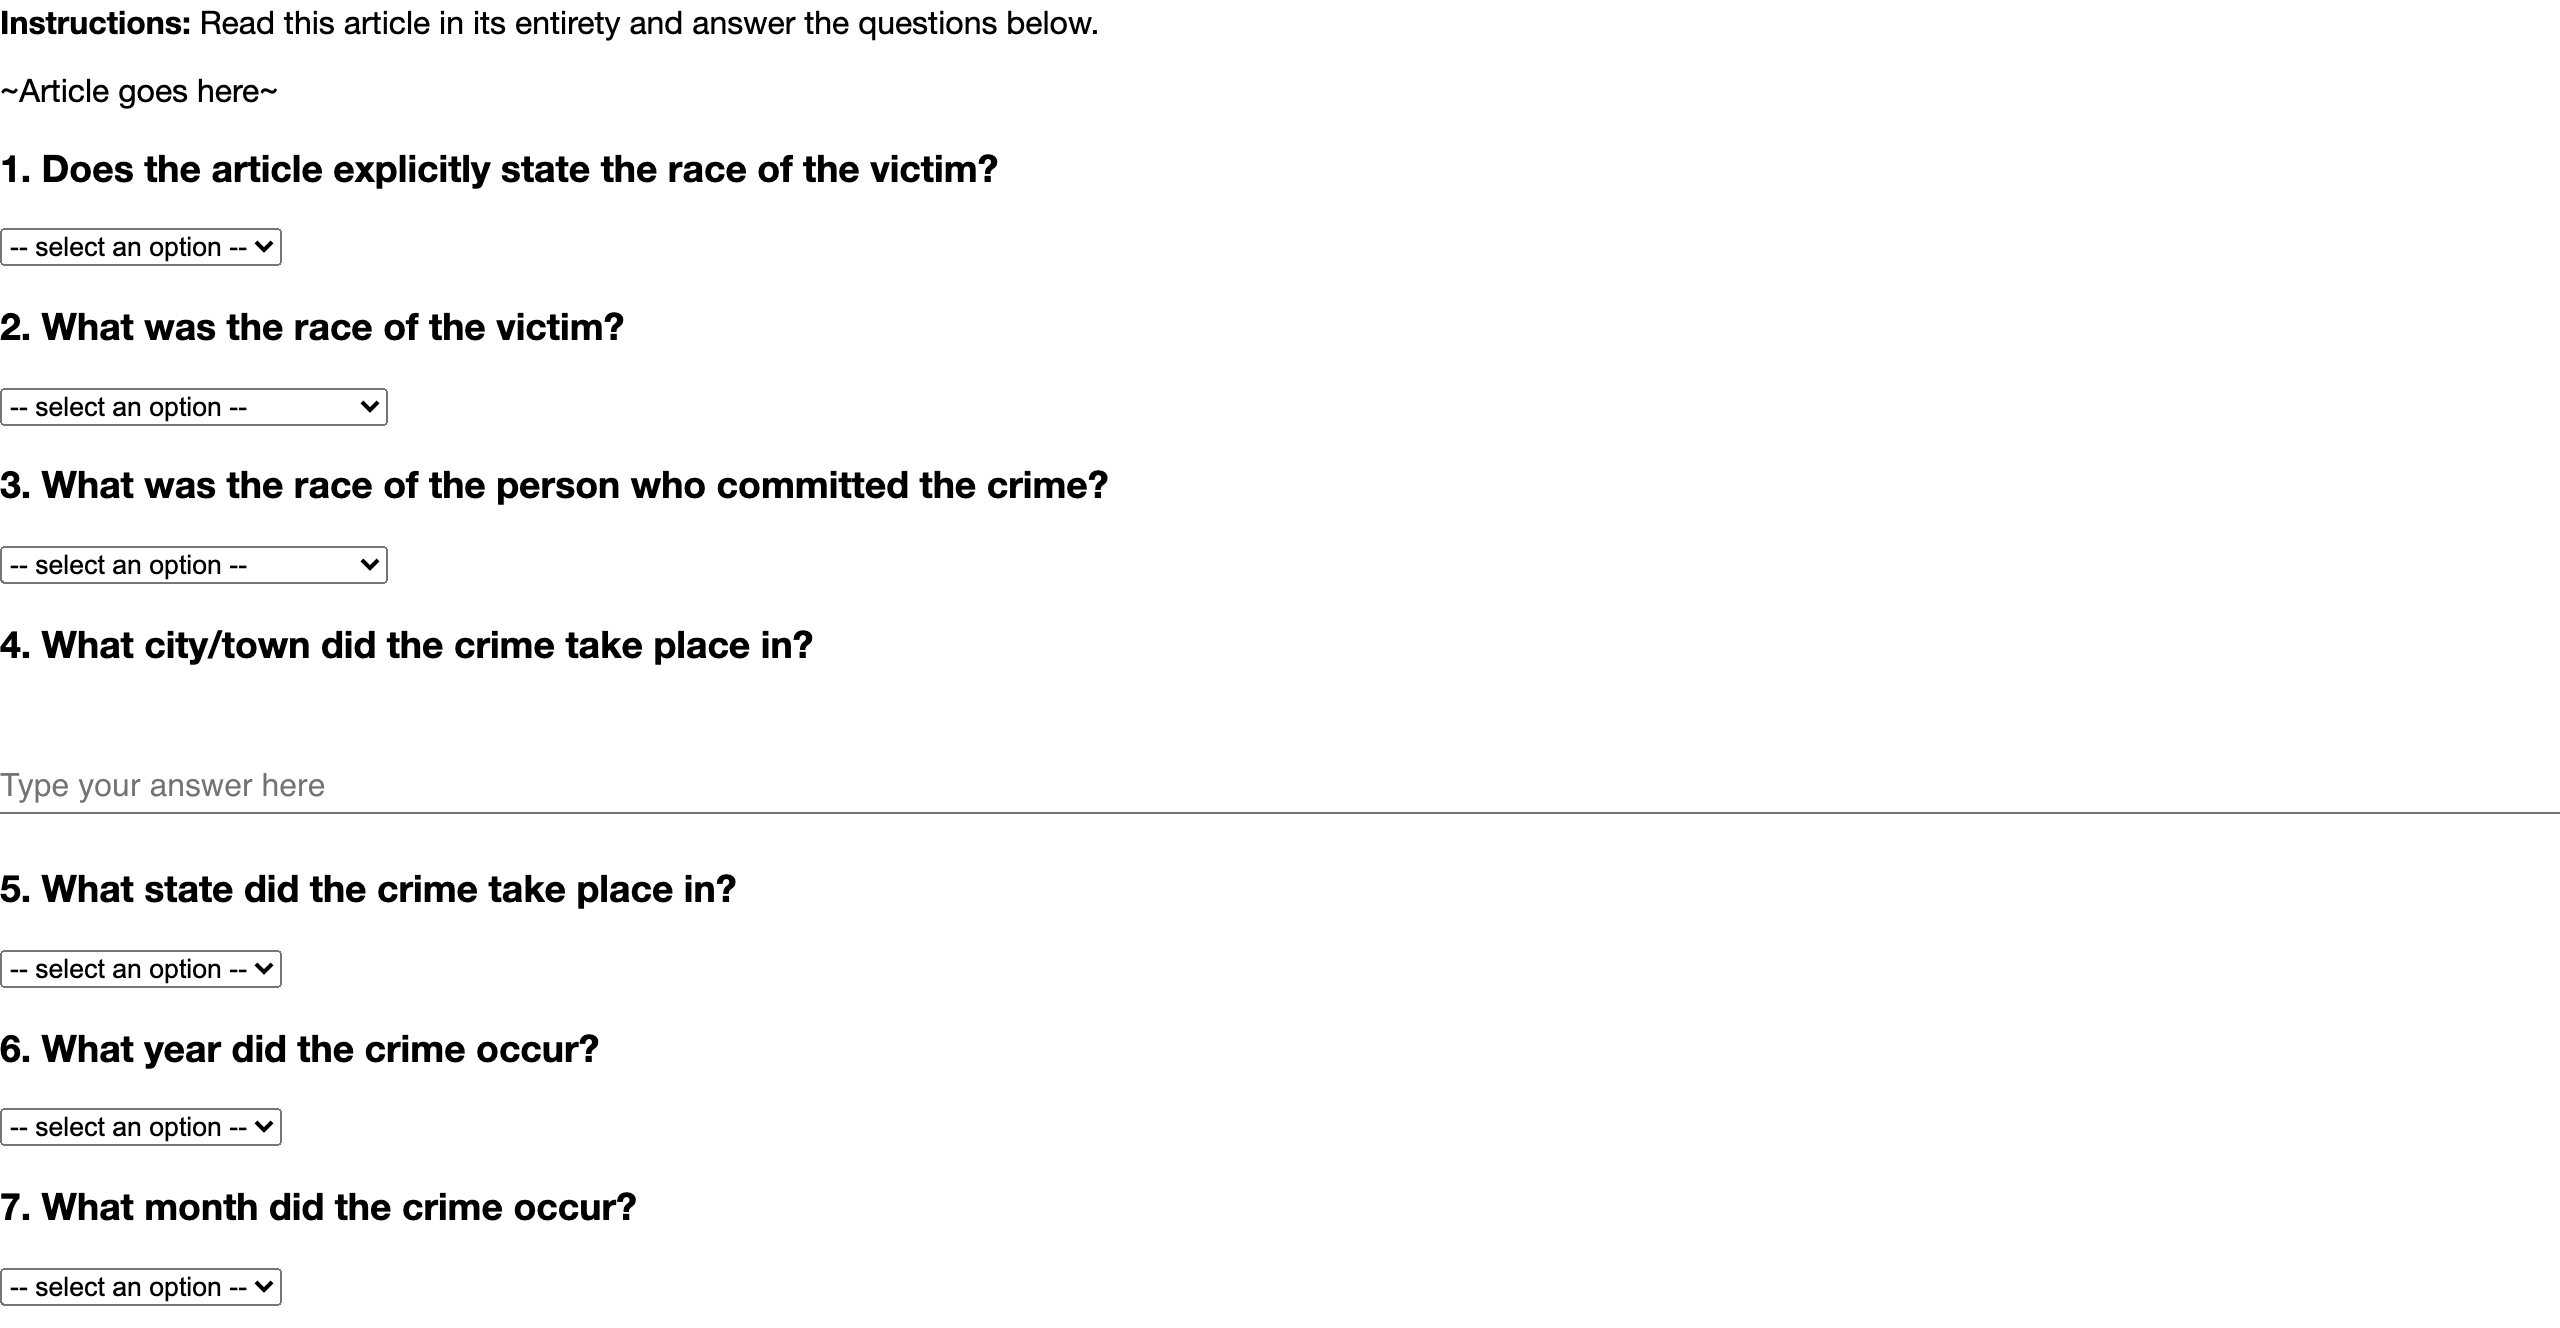
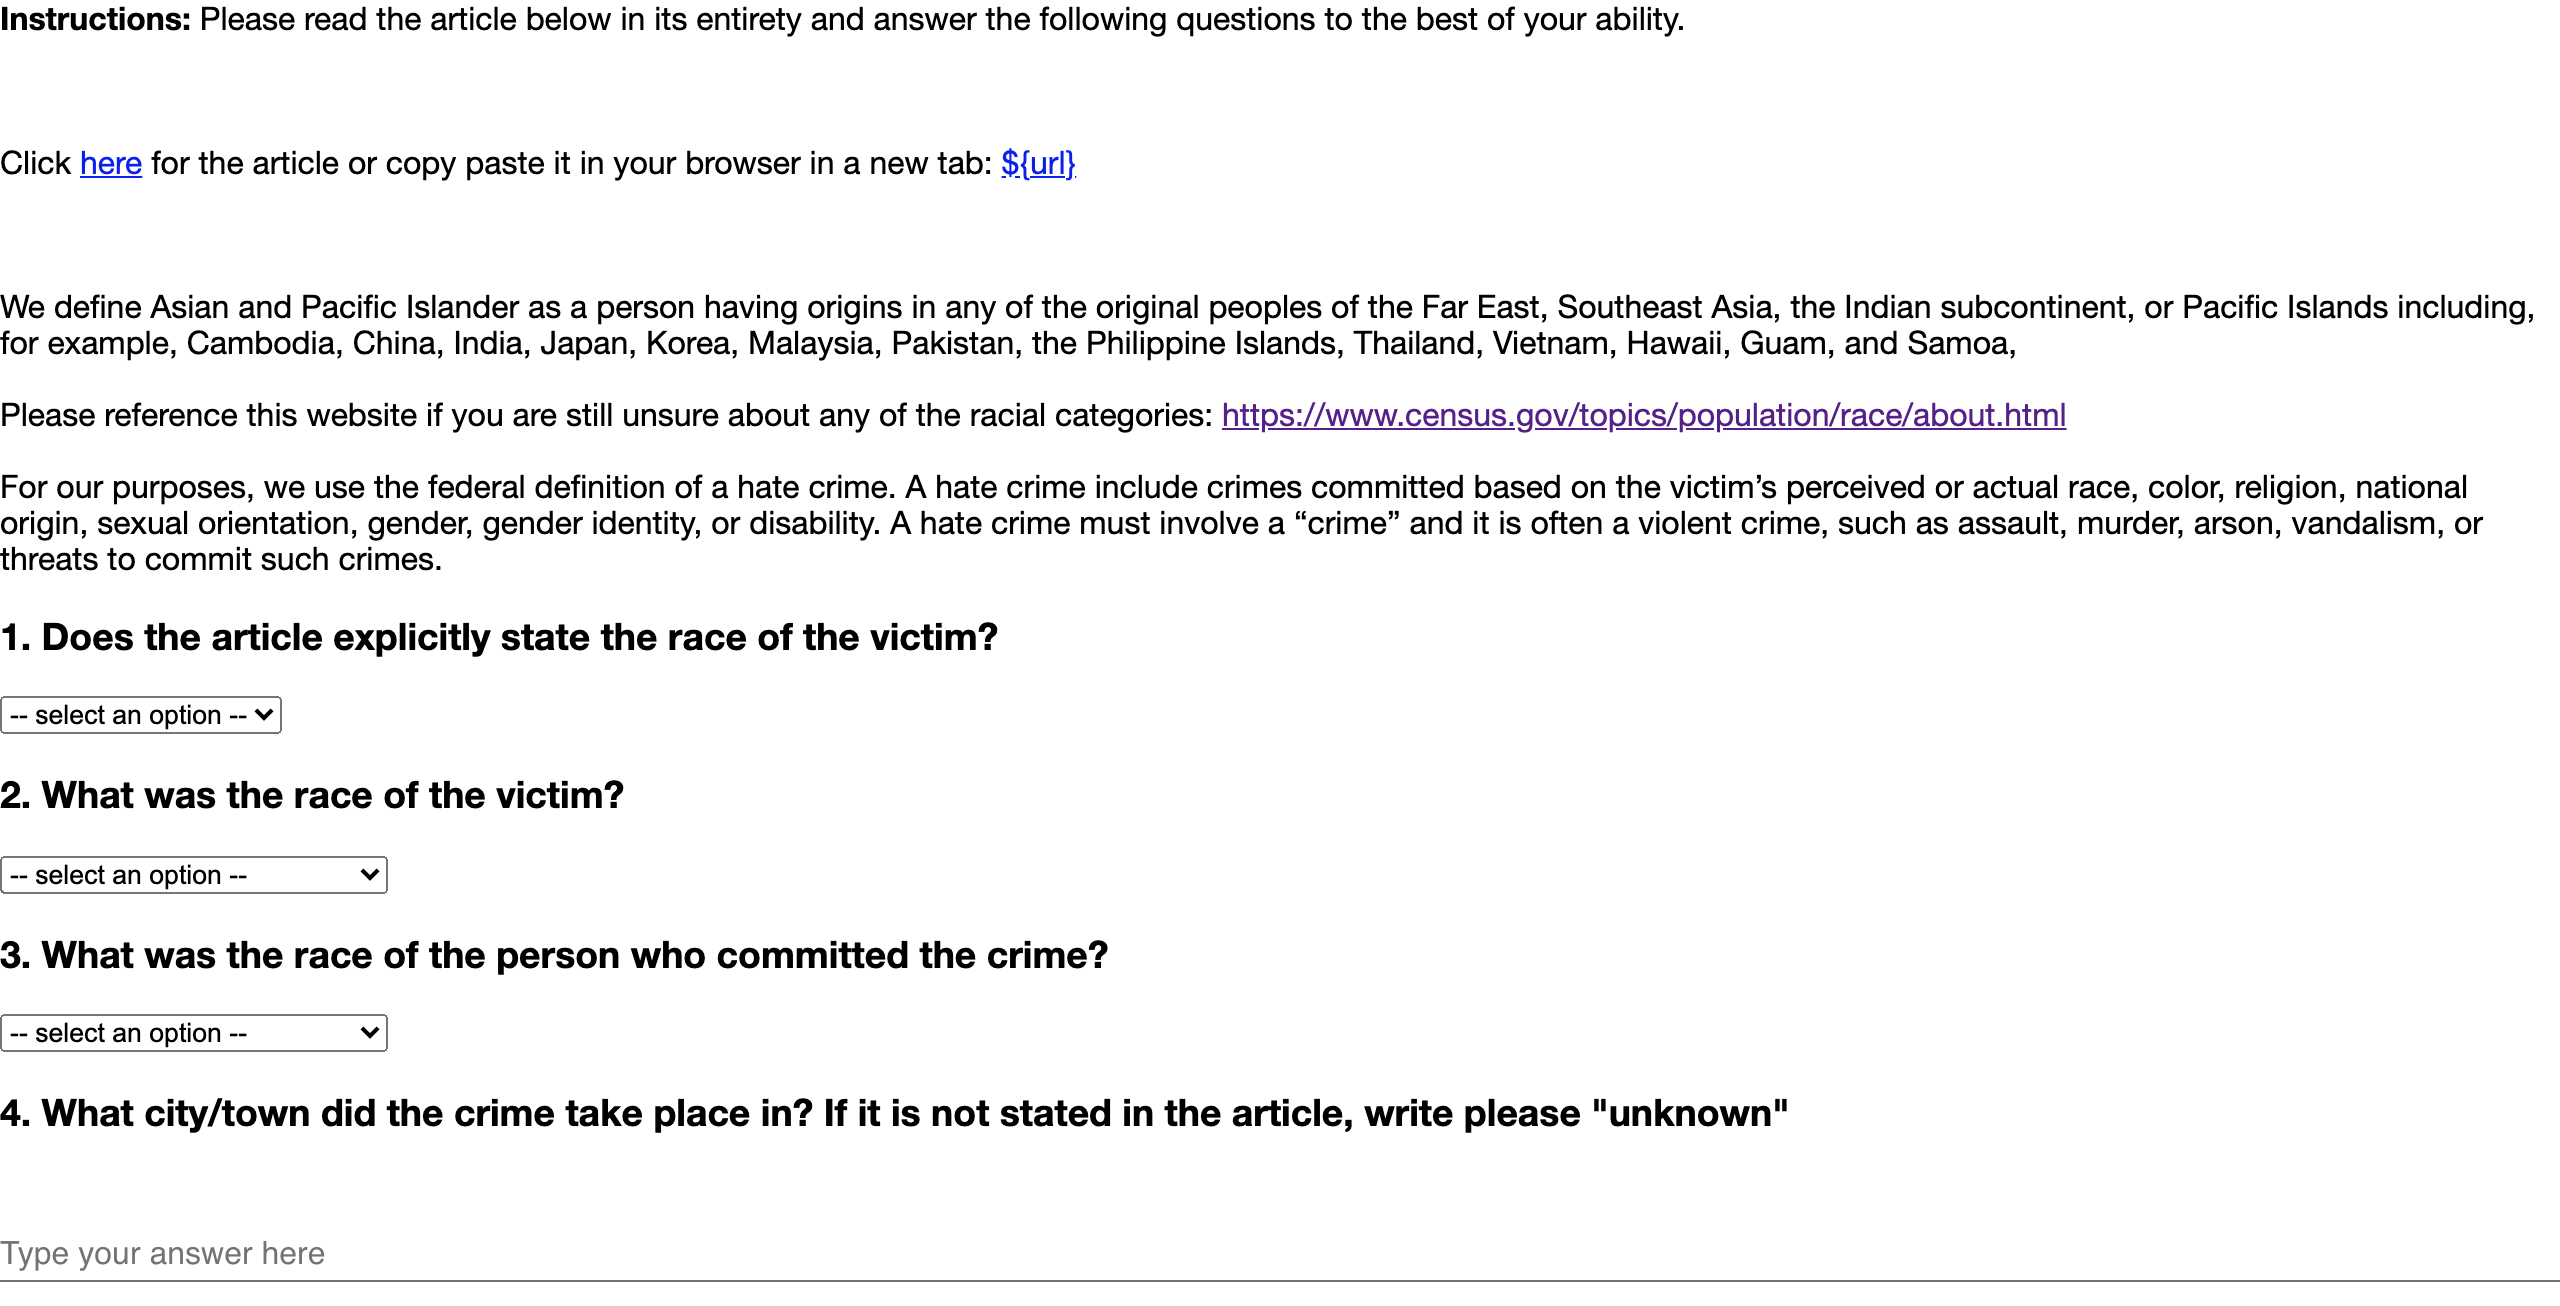
HITDesign Update
Updated some dropdown menu options and implemented embedding links to articles.

Changed region(s): [[0.0, 0.0613, 1.0, 0.9188], [0.0, 0.0, 0.6562, 0.0306], [0.0, 0.9495, 0.125, 1.0]]

diff --git a/HIT designs/HITDesign.html b/HIT designs/HITDesign.html
@@ -9,10 +9,20 @@
 
     <p>
       <strong>Instructions: </strong>
-      Read this article in its entirety and answer the questions below. 
-    </p>
-    <p>
-      ~Article goes here~
+        Please read the article below in its entirety and answer the following questions to the best of your ability.
+        <br><br><br><br> 
+
+        Click <a href="${url}" target="_blank">here</a> for the article or copy paste it in your browser in a new tab: 
+        <a href="${url}" target="_blank">${url}</a>
+
+        <br><br><br><br> 
+        We define Asian and Pacific Islander as a person having origins in any of the original peoples of the Far East, Southeast Asia, the Indian subcontinent, or Pacific Islands including, for example, Cambodia, China, India, Japan, Korea, Malaysia, Pakistan, the Philippine Islands, Thailand, Vietnam, Hawaii, Guam, and Samoa,
+        <br><br> 
+        Please reference this website if you are still unsure about any of the racial categories:
+        <a href="https://www.census.gov/topics/population/race/about.html" target="_blank">https://www.census.gov/topics/population/race/about.html</a>
+        <br><br>
+        For our purposes, we use the federal definition of a hate crime. A hate crime include crimes committed based on the victim’s perceived or actual race, color, religion, national origin, sexual orientation, gender, gender identity, or disability. A hate crime must involve a “crime” and it is often a violent crime, such as assault, murder, arson, vandalism, or threats to commit such crimes.
+
     </p>
 
     <div id="q1">
@@ -39,6 +49,7 @@
                     <option value="native_hawaiian">Native Hawaiian</option>
                     <option value="pacific">Other Pacific Islander</option>
                     <option value="white">White or European American</option>
+                    <option value="unknown">Unknown</option>
             </select>
     </div>
 
@@ -55,12 +66,13 @@
                     <option value="native_hawaiian">Native Hawaiian</option>
                     <option value="pacific">Other Pacific Islander</option>
                     <option value="white">White or European American</option>
+                    <option value="unknown">Unknown</option>
             </select>
     </div>
 
 
     <div id="q4">
-        <h3>4. What city/town did the crime take place in?</h3>
+        <h3>4. What city/town did the crime take place in? If it is not stated in the article, write please "unknown"</h3>
             <crowd-input name="town" placeholder="Type your answer here" required></crowd-input>
     </div>
 
@@ -266,7 +278,7 @@
                     <option value="june">June</option>
                     <option value="july">July</option>
                     <option value="august">August</option>
-                    <option value="september">Septmeber</option>
+                    <option value="september">September</option>
                     <option value="october">October</option>
                     <option value="november">November</option>
                     <option value="december">December</option>
